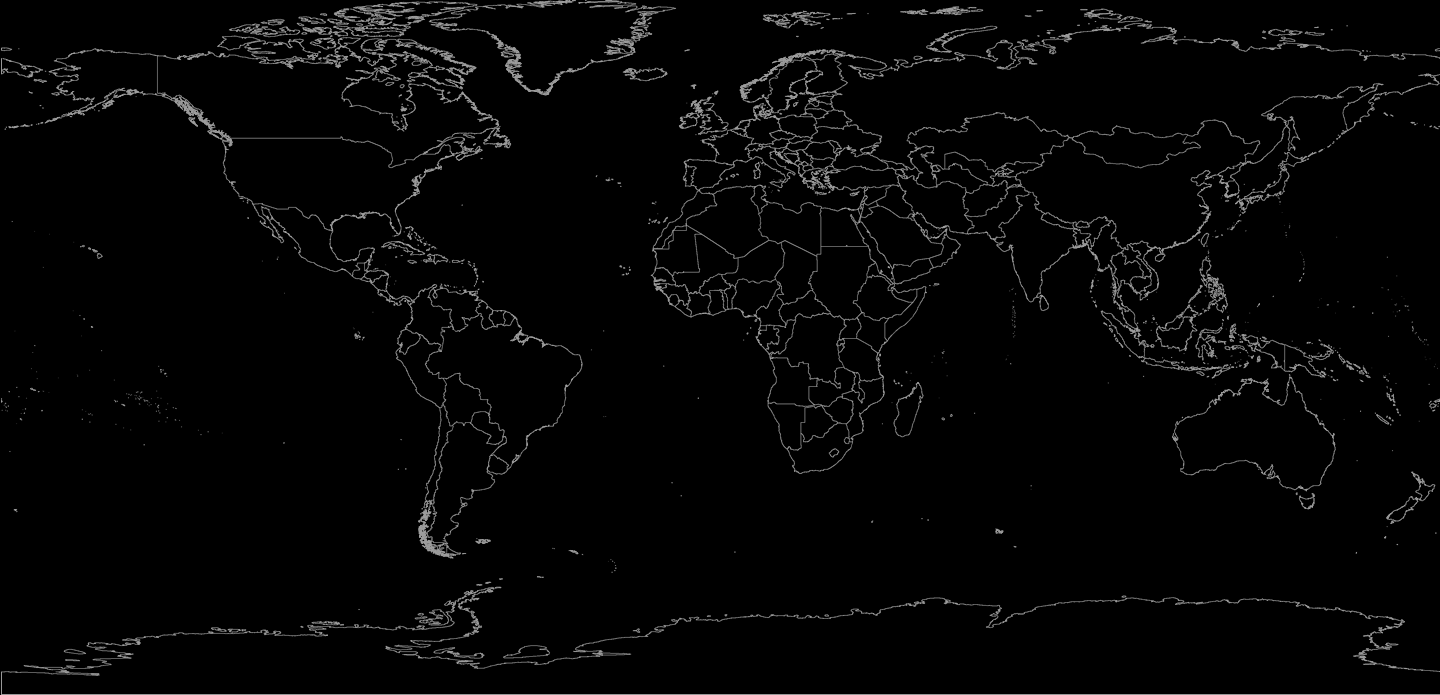
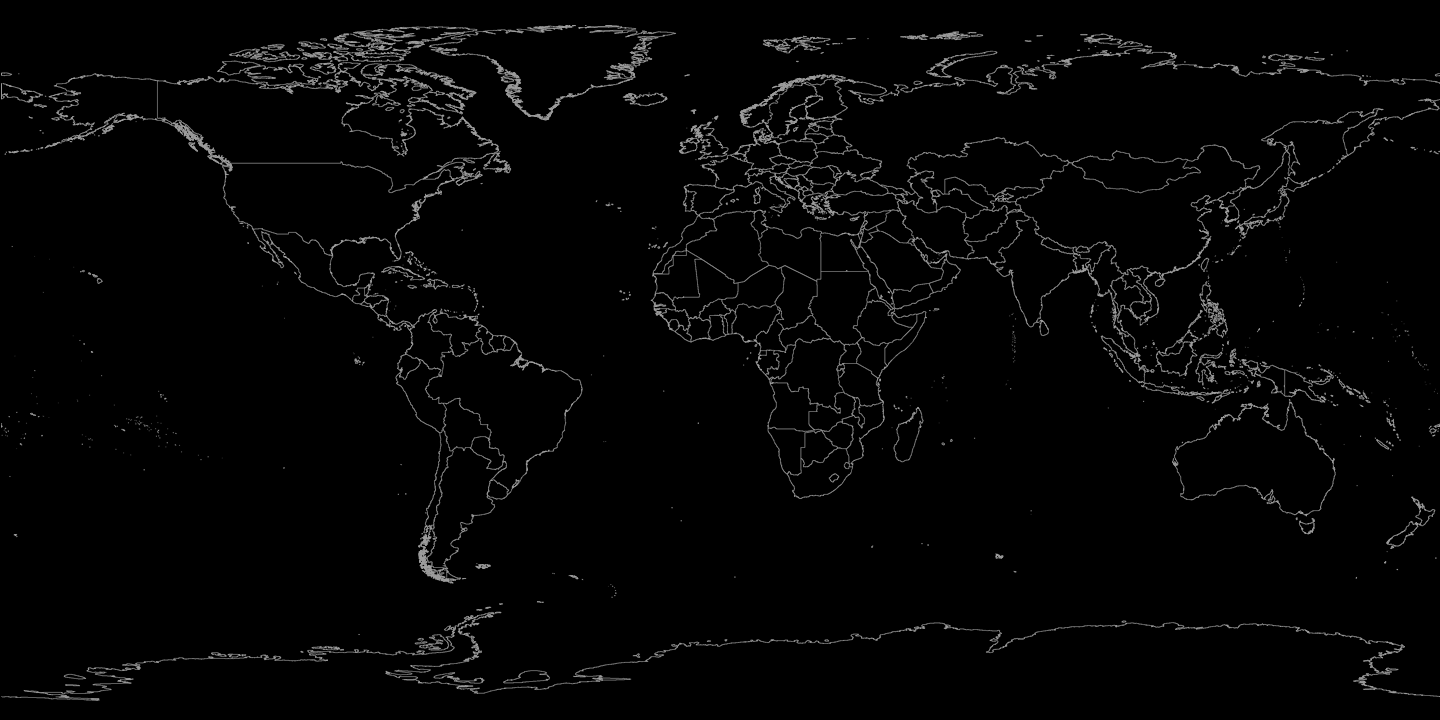
Разбить drawPixel по XY и LatLon #51
Изменил картинку так, чтобы не считать смещение

diff --git a/web/js/canvas.js b/web/js/canvas.js
@@ -5,20 +5,16 @@ let ctx = canvas.getContext("2d");
 let canvasData = ctx.getImageData(0, 0, canvasWidth, canvasHeight);
 
 let imageWidth = 1440;
-let imageHeight = 695;
-
-let canvasOffsetX = 0;
-let canvasOffsetY = 14; // Math.round((imageWidth / 2 - imageHeight) * canvasWidth / imageWidth);
-
-let latK = 1.035;
+let imageHeight = 720;
+let imageSrc = "images/world.png";
 
 let image = new Image();
-image.src = "images/world.png";
+image.src = imageSrc;
 
 function drawImage() {
     ctx.drawImage(image,
         0, 0, imageWidth, imageHeight,
-        canvasOffsetX, canvasOffsetY, canvasWidth, canvasHeight);
+        0, 0, canvasWidth, canvasHeight);
 }
 
 image.onload = function () {
@@ -27,11 +23,12 @@ image.onload = function () {
 
     // Три тестовые точки
     [
-        {x: 1, y: 56, r: 255, g: 0, b: 0, a: 255},
-        {x: 2, y: 57, r: 0, g: 255, b: 0, a: 255},
-        {x: 3, y: 58, r: 0, g: 0, b: 255, a: 255}
+        {x: 0, y: 0, r: 255, g: 0, b: 0, a: 255},
+        {x: 1, y: 1, r: 255, g: 0, b: 0, a: 255},
+        {x: 2, y: 2, r: 0, g: 255, b: 0, a: 255},
+        {x: 3, y: 3, r: 0, g: 0, b: 255, a: 255}
     ].forEach(function ({x, y, r, g, b, a}) {
-        drawPixel(x, y, r, g, b, a);
+        drawPixelXY(x, y, r, g, b, a);
     });
 
     // Тестовые точки по краям мира
@@ -43,9 +40,7 @@ image.onload = function () {
         {lat: -54.73, lon: -63.81}, // Южная Америка -54.7267363,-63.8125051
         {lat: 66.54, lon: -16.20} // Исландия 66.5370265,-16.1965755
     ].forEach(function ({lat, lon}) {
-        let x = (lon + 180) * 4;
-        let y = (90 - lat * latK) * 4;
-        drawPixel(x, y, 255, 0, 255, 255);
+        drawPixelLatLon(lat, lon, 255, 0, 255, 255);
     });
 };
 
@@ -53,13 +48,21 @@ image.onload = function () {
 /**
  * Занести точку во временный массив данных (картунка)
  */
-function drawPixel(x, y, r, g, b, a) {
-    let index = (Math.round(x) + Math.round(y) * canvasWidth) * Math.round(canvasWidth / 360); // 360 - кол-во градусов в полном угле
+function drawPixelXY(x, y, r, g, b, a) {
+    let index = (Math.round(x) + Math.round(y) * canvasWidth) * 4;
 
     canvasData.data[index] = r;
     canvasData.data[index + 1] = g;
     canvasData.data[index + 2] = b;
     canvasData.data[index + 3] = a;
+}
+
+function drawPixelLatLon(lat, lon, r, g, b, a) {
+    let pixelPerDeg = canvasWidth / 360;
+
+    let x = (lon + 180) * pixelPerDeg;
+    let y = (90 - lat) * pixelPerDeg;
+    drawPixelXY(x, y, r, g, b, a);
 }
 
 /**
@@ -115,7 +118,7 @@ socket.addEventListener('message', function (event) {
     //        BR   |   AUS
     //             | -90
 
-    drawPixel((lon + 180) * 4, 4 * (90 - lat * latK), udp ? 0 : 255, udp ? 255 : 0, 0, 255);
+    drawPixelLatLon(lat, lon, udp ? 0 : 255, udp ? 255 : 0, 0, 255);
 });
 
 // Наблюдает за ошибками
